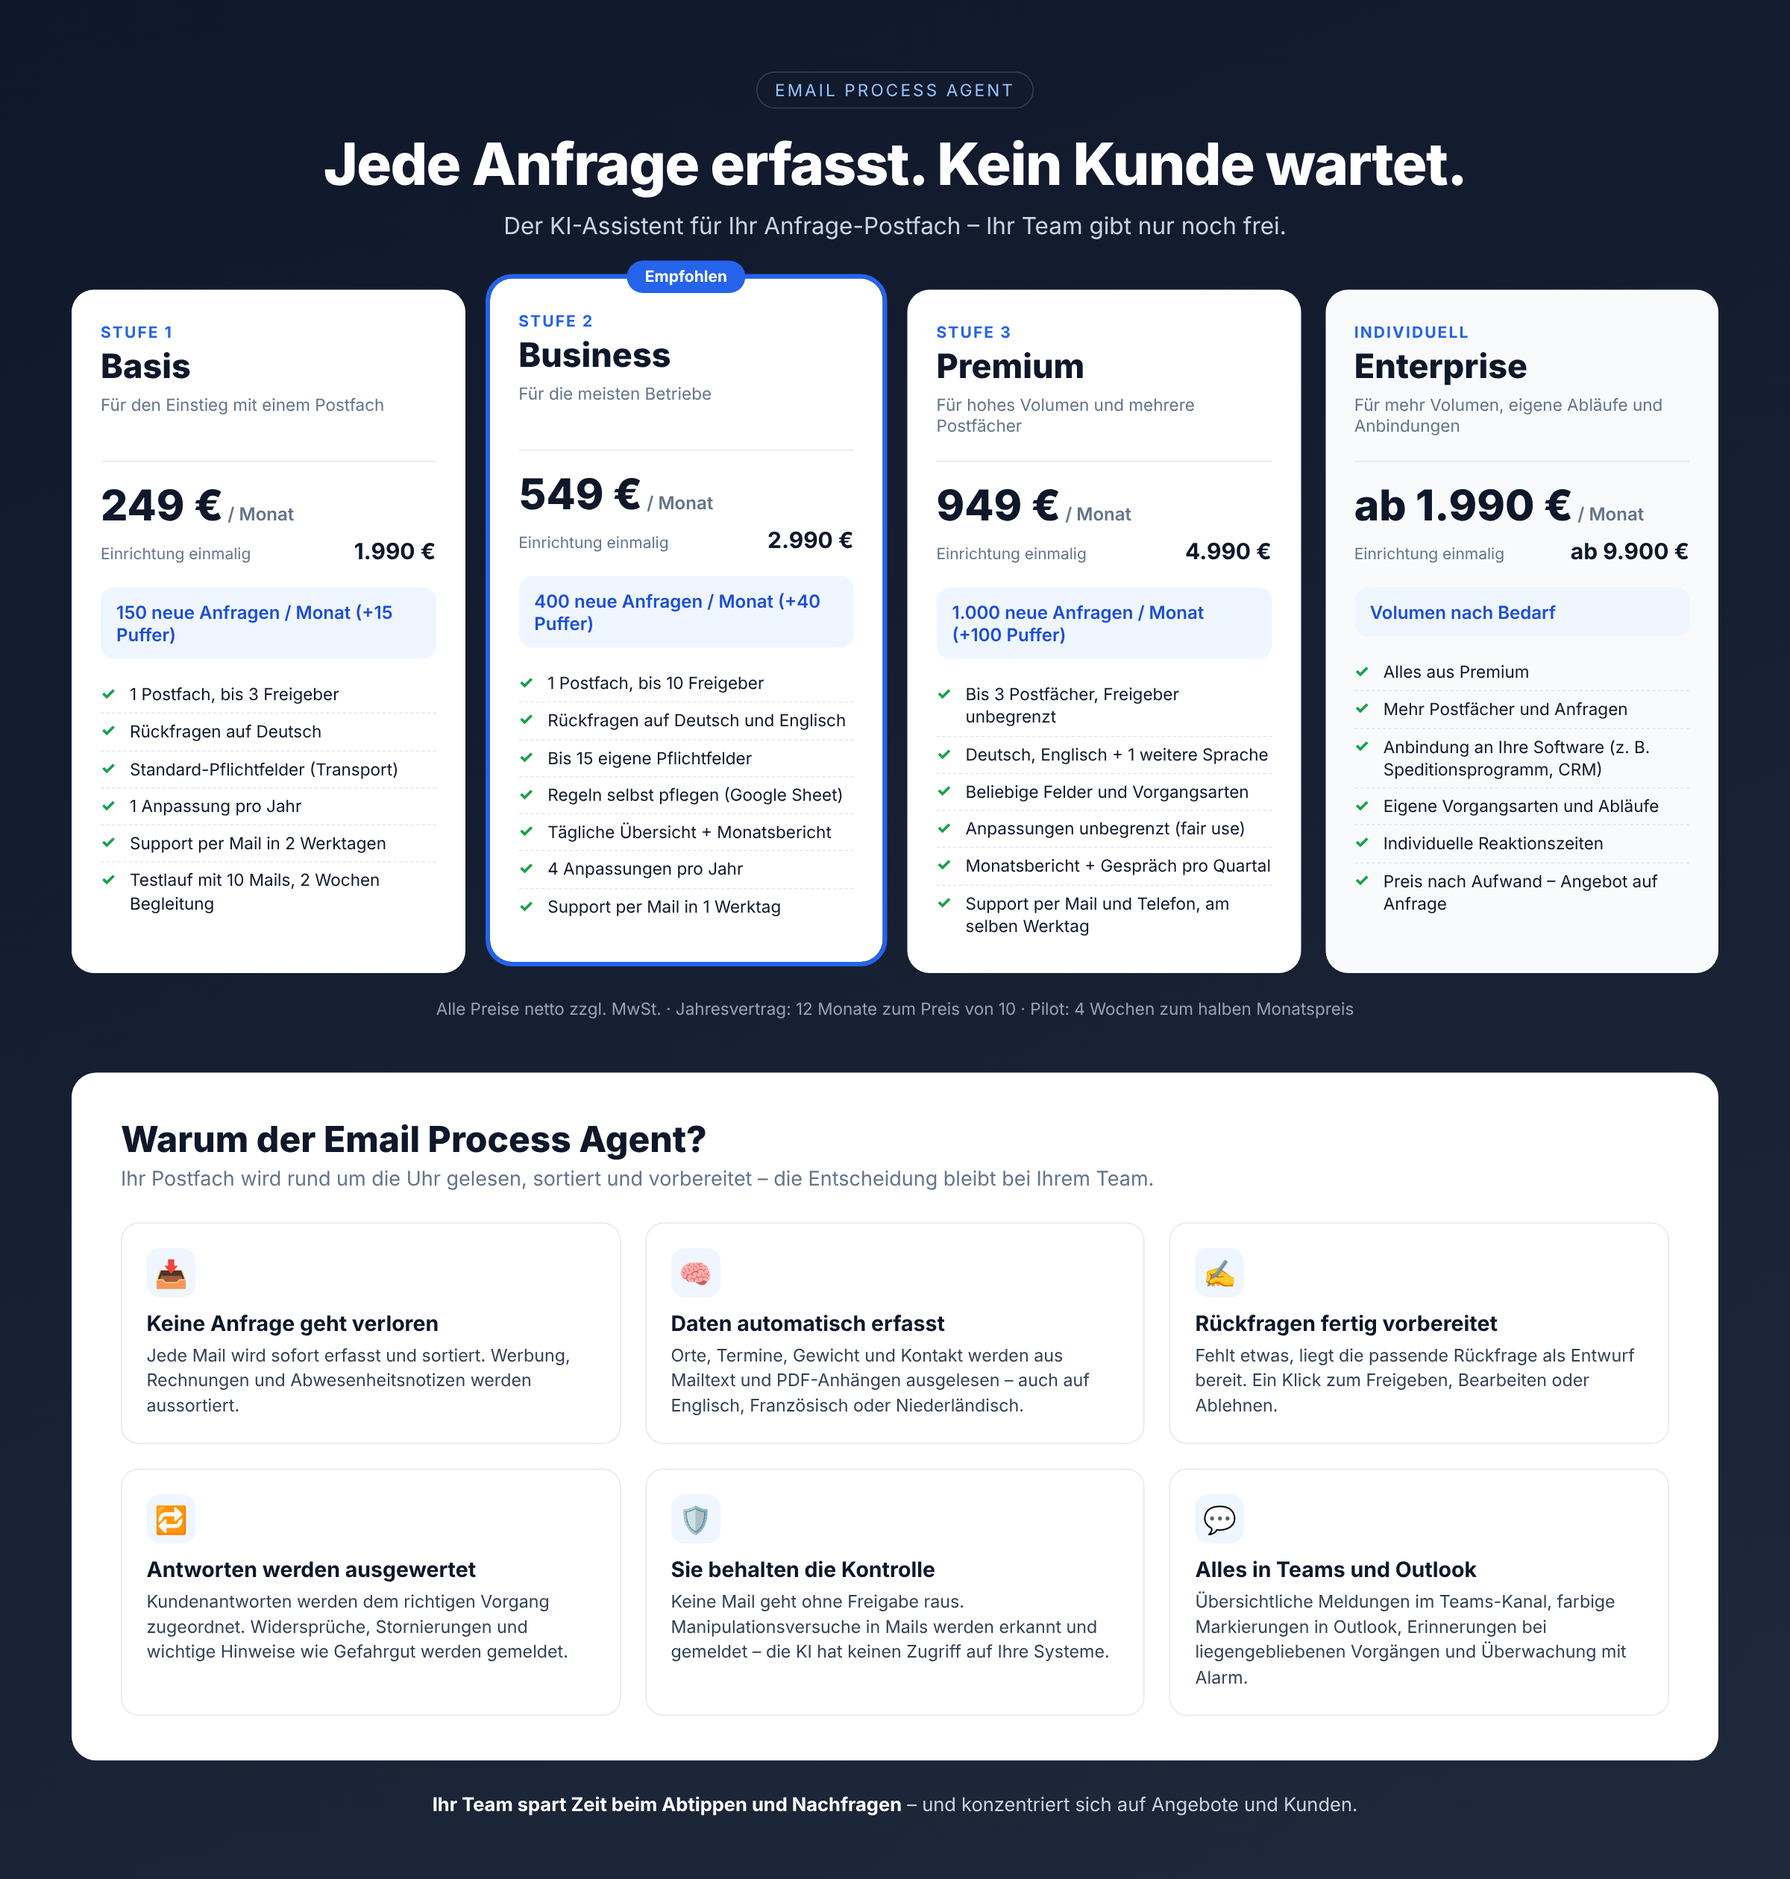
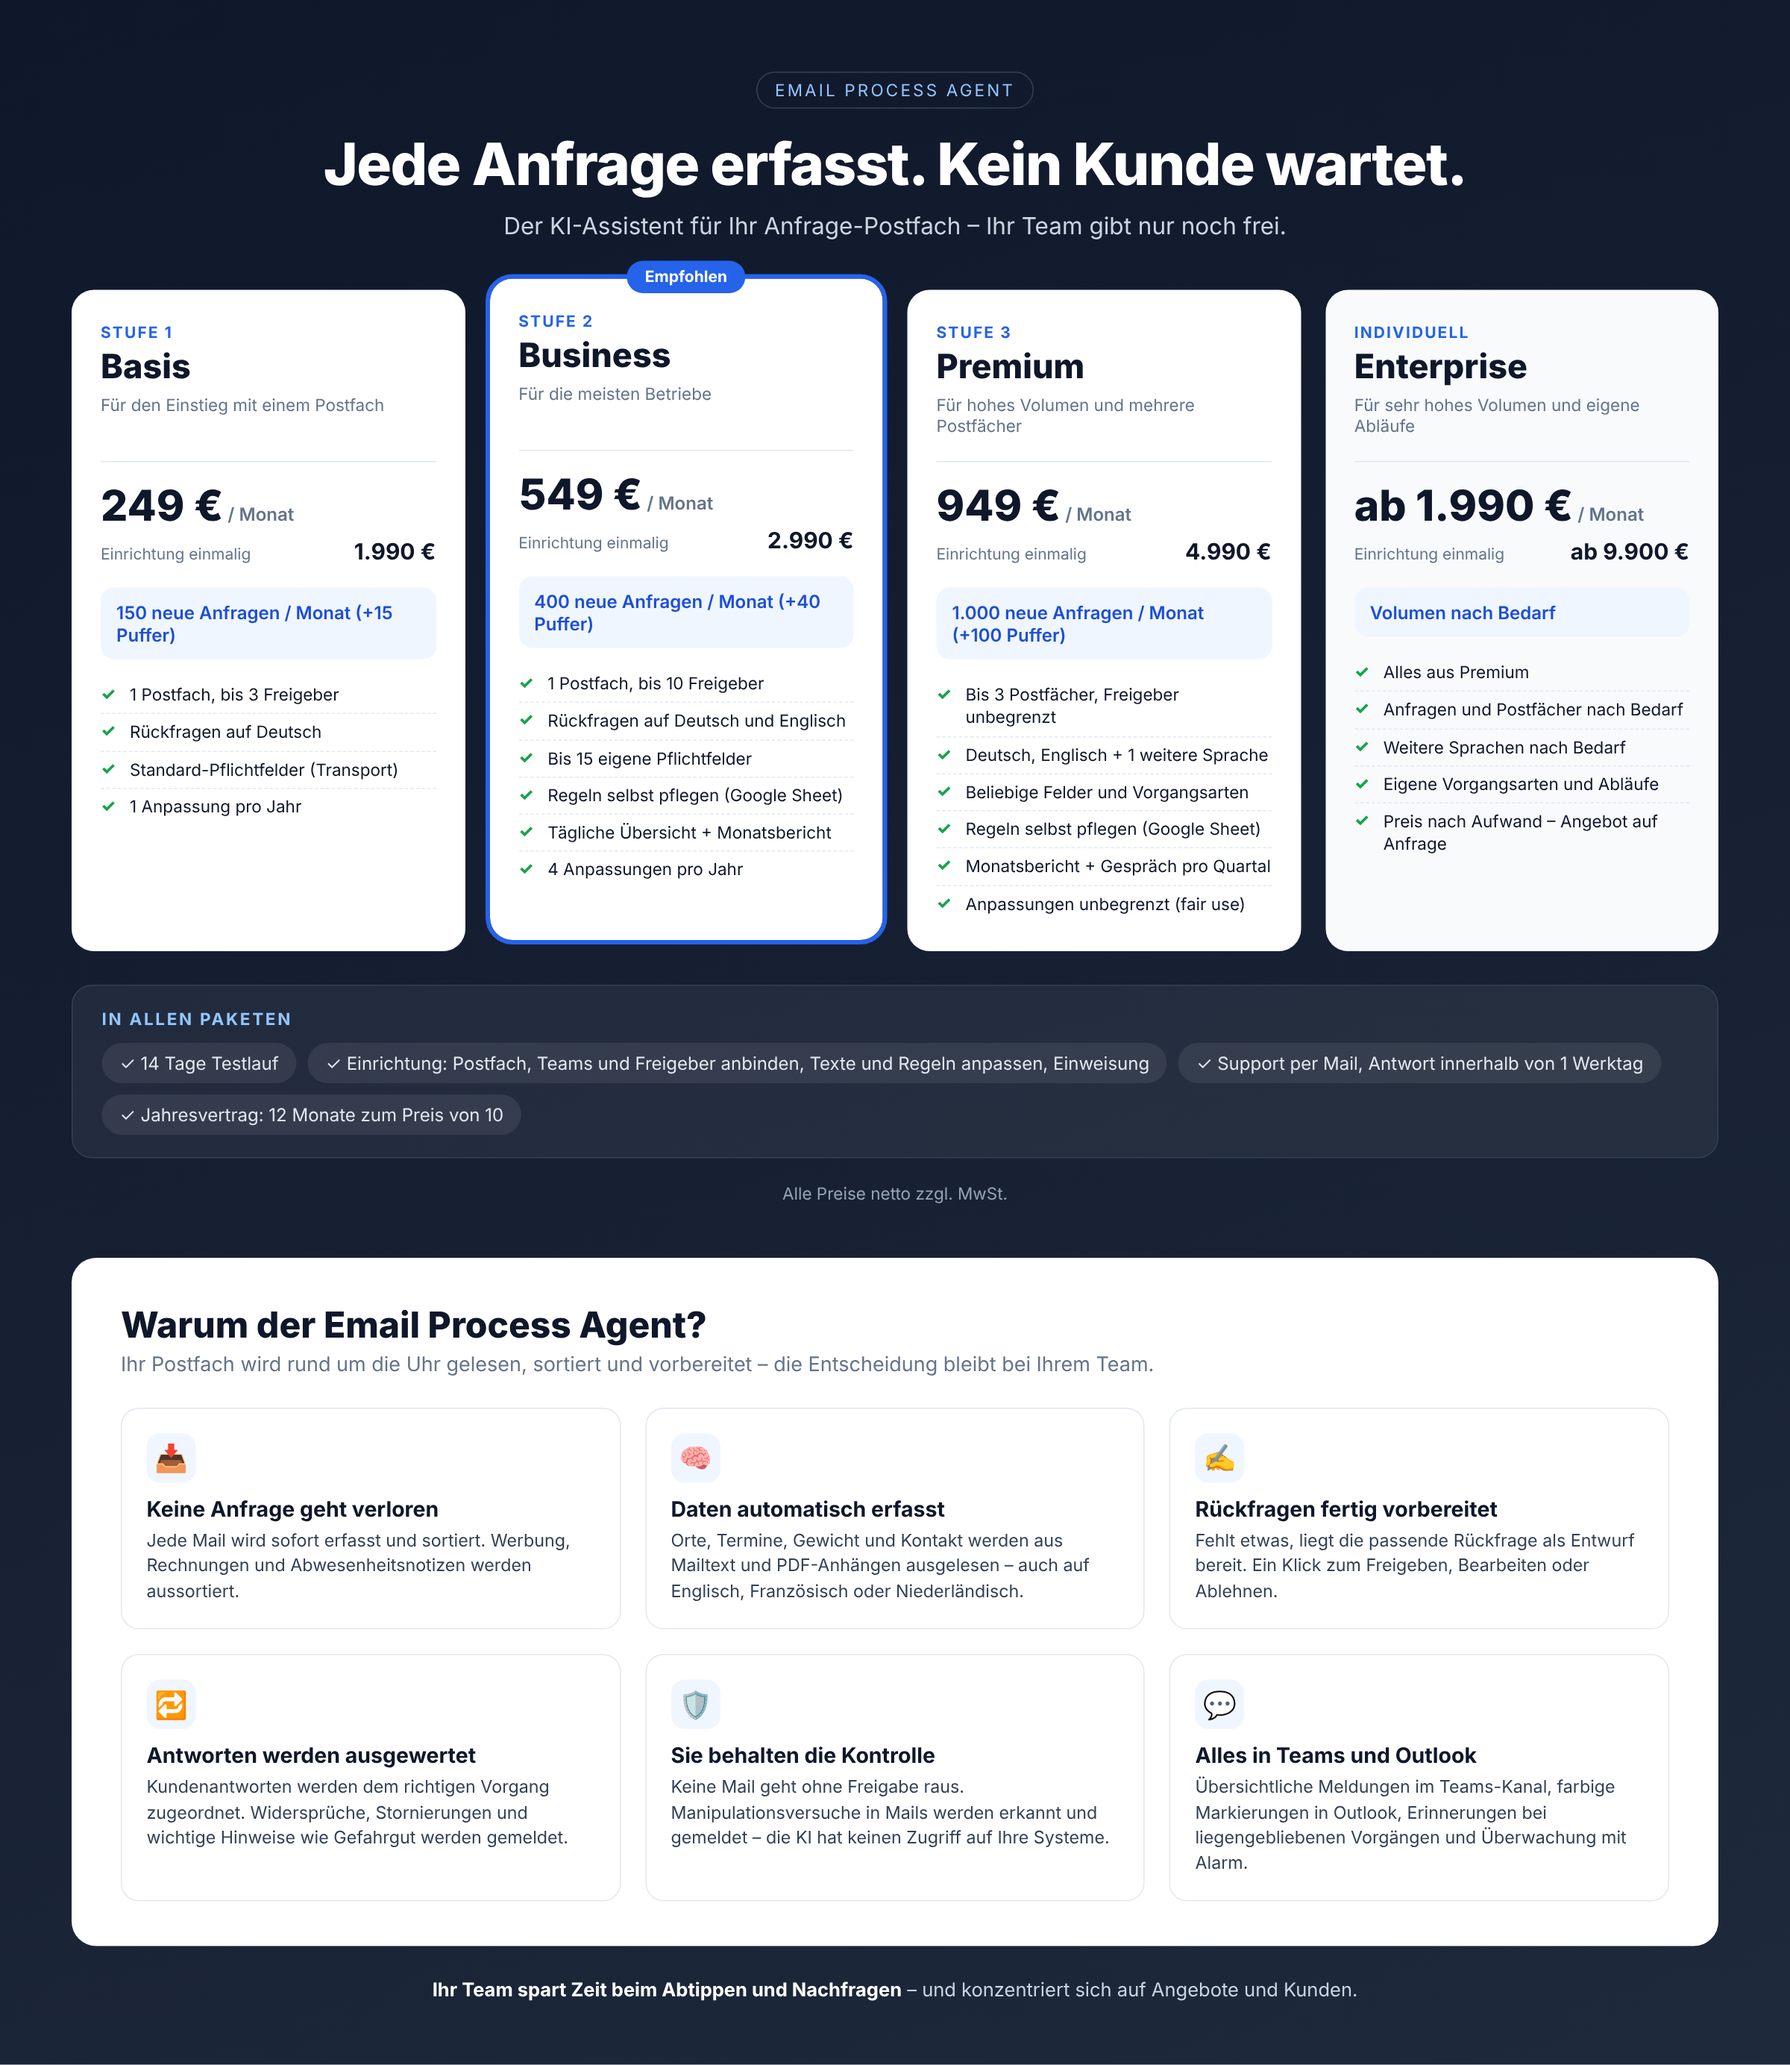
Marketing: Werbebild mit einheitlicher Einrichtung, Support und 14 Tagen Testlauf
Claude-Session: https://claude.ai/code/session_01DWBN4EiRV4Kip9NV7YGeLF

diff --git a/email-process-agent/docs/marketing/pakete.html b/email-process-agent/docs/marketing/pakete.html
@@ -27,6 +27,10 @@ li{font-size:15px;line-height:1.35;padding:6px 0 6px 26px;position:relative;bord
 li:last-child{border-bottom:0}
 li::before{content:"✓";position:absolute;left:0;top:5px;color:var(--ok);font-weight:800}
 .p.ind{background:#f8fafc}
+.alle{margin-top:30px;background:rgba(255,255,255,.06);border:1px solid #334155;border-radius:18px;padding:20px 26px;color:#e2e8f0}
+.alle-t{font-size:15px;font-weight:700;letter-spacing:.12em;text-transform:uppercase;color:#93c5fd;margin-bottom:12px}
+.chips{display:flex;flex-wrap:wrap;gap:10px}
+.chips span{background:rgba(255,255,255,.08);border-radius:999px;padding:8px 16px;font-size:16px}
 .netto{text-align:center;color:#94a3b8;font-size:15px;margin-top:22px}
 .vorteile{margin-top:48px;background:#fff;border-radius:22px;padding:40px 44px}
 .vorteile h2{font-size:32px;font-weight:800;margin-bottom:6px}
@@ -59,8 +63,6 @@ li::before{content:"✓";position:absolute;left:0;top:5px;color:var(--ok);font-w
       <li>Rückfragen auf Deutsch</li>
       <li>Standard-Pflichtfelder (Transport)</li>
       <li>1 Anpassung pro Jahr</li>
-      <li>Support per Mail in 2 Werktagen</li>
-      <li>Testlauf mit 10 Mails, 2 Wochen Begleitung</li>
     </ul>
   </div>
 
@@ -80,7 +82,6 @@ li::before{content:"✓";position:absolute;left:0;top:5px;color:var(--ok);font-w
       <li>Regeln selbst pflegen (Google Sheet)</li>
       <li>Tägliche Übersicht + Monatsbericht</li>
       <li>4 Anpassungen pro Jahr</li>
-      <li>Support per Mail in 1 Werktag</li>
     </ul>
   </div>
 
@@ -96,15 +97,15 @@ li::before{content:"✓";position:absolute;left:0;top:5px;color:var(--ok);font-w
       <li>Bis 3 Postfächer, Freigeber unbegrenzt</li>
       <li>Deutsch, Englisch + 1 weitere Sprache</li>
       <li>Beliebige Felder und Vorgangsarten</li>
-      <li>Anpassungen unbegrenzt (fair use)</li>
+      <li>Regeln selbst pflegen (Google Sheet)</li>
       <li>Monatsbericht + Gespräch pro Quartal</li>
-      <li>Support per Mail und Telefon, am selben Werktag</li>
+      <li>Anpassungen unbegrenzt (fair use)</li>
     </ul>
   </div>
 
   <div class="p ind">
     <div class="stufe">Individuell</div><div class="name">Enterprise</div>
-    <div class="fuer">Für mehr Volumen, eigene Abläufe und Anbindungen</div>
+    <div class="fuer">Für sehr hohes Volumen und eigene Abläufe</div>
     <div class="preis">
       <div class="zeile"><span class="mon">ab 1.990 €<small> / Monat</small></span></div>
       <div class="zeile"><span class="l">Einrichtung einmalig</span><span class="ein">ab 9.900 €</span></div>
@@ -112,15 +113,23 @@ li::before{content:"✓";position:absolute;left:0;top:5px;color:var(--ok);font-w
     <div class="menge">Volumen nach Bedarf</div>
     <ul>
       <li>Alles aus Premium</li>
-      <li>Mehr Postfächer und Anfragen</li>
-      <li>Anbindung an Ihre Software (z. B. Speditionsprogramm, CRM)</li>
+      <li>Anfragen und Postfächer nach Bedarf</li>
+      <li>Weitere Sprachen nach Bedarf</li>
       <li>Eigene Vorgangsarten und Abläufe</li>
-      <li>Individuelle Reaktionszeiten</li>
       <li>Preis nach Aufwand – Angebot auf Anfrage</li>
     </ul>
   </div>
 </div>
-<div class="netto">Alle Preise netto zzgl. MwSt. · Jahresvertrag: 12 Monate zum Preis von 10 · Pilot: 4 Wochen zum halben Monatspreis</div>
+<div class="alle">
+  <div class="alle-t">In allen Paketen</div>
+  <div class="chips">
+    <span>✓ 14 Tage Testlauf</span>
+    <span>✓ Einrichtung: Postfach, Teams und Freigeber anbinden, Texte und Regeln anpassen, Einweisung</span>
+    <span>✓ Support per Mail, Antwort innerhalb von 1 Werktag</span>
+    <span>✓ Jahresvertrag: 12 Monate zum Preis von 10</span>
+  </div>
+</div>
+<div class="netto">Alle Preise netto zzgl. MwSt.</div>
 
 <div class="vorteile">
   <h2>Warum der Email Process Agent?</h2>
